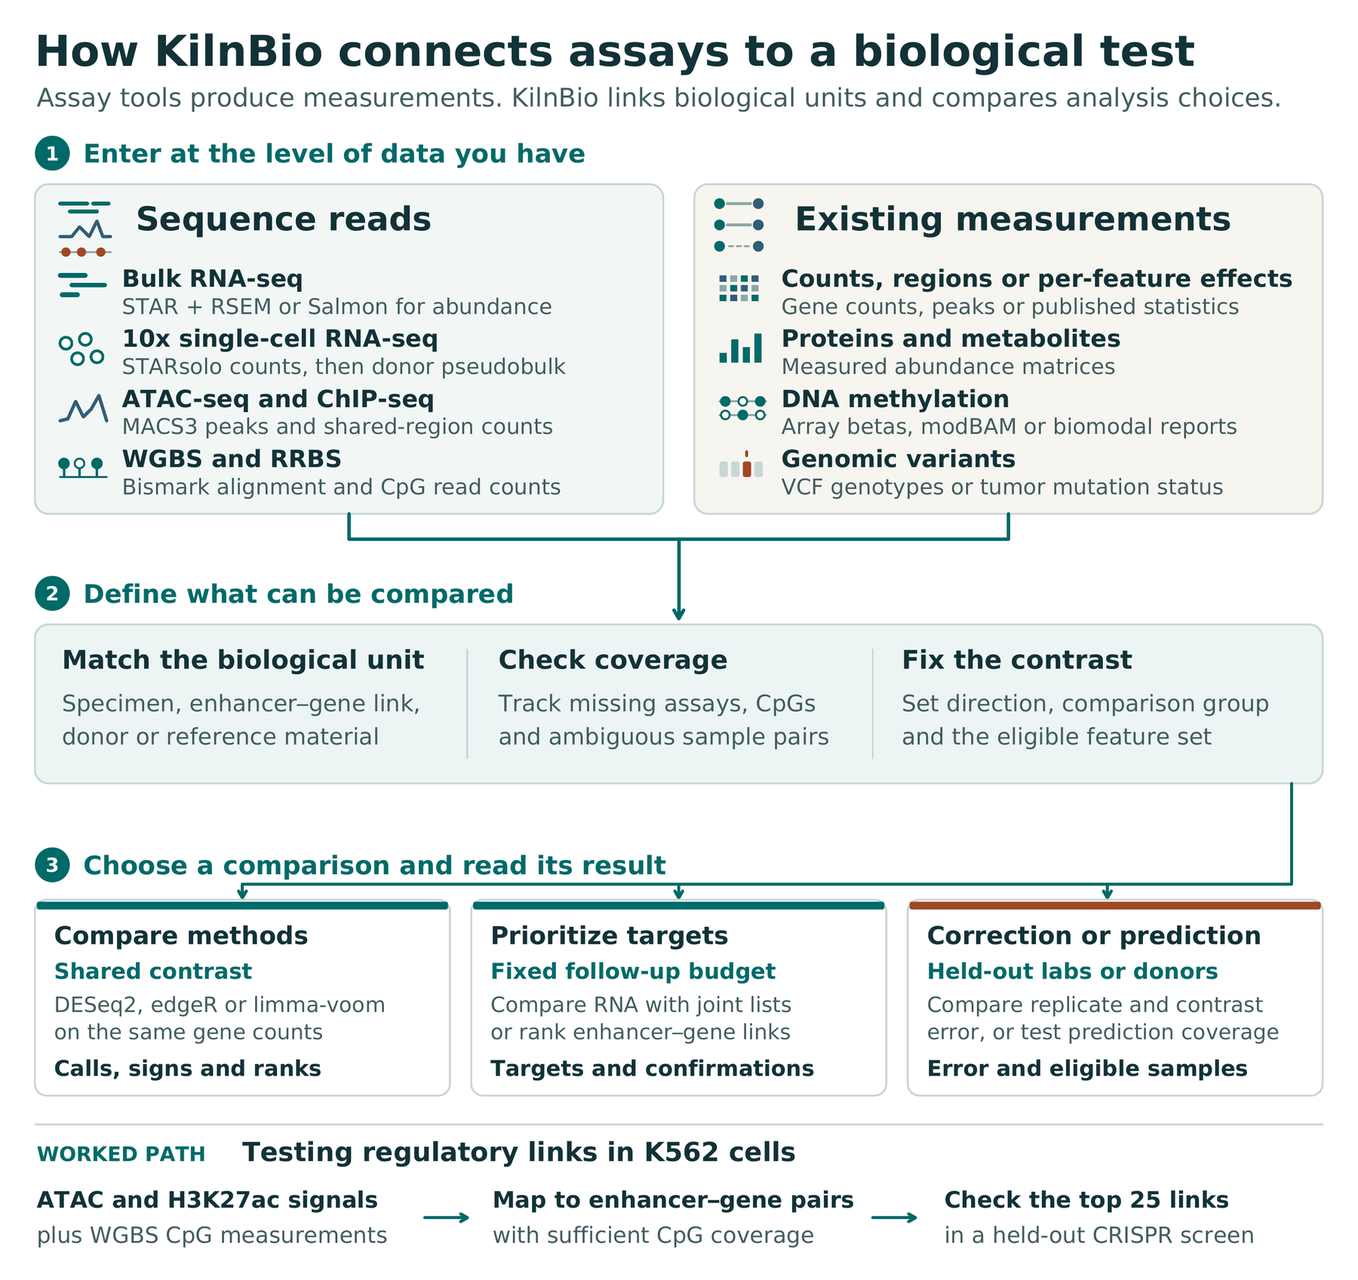
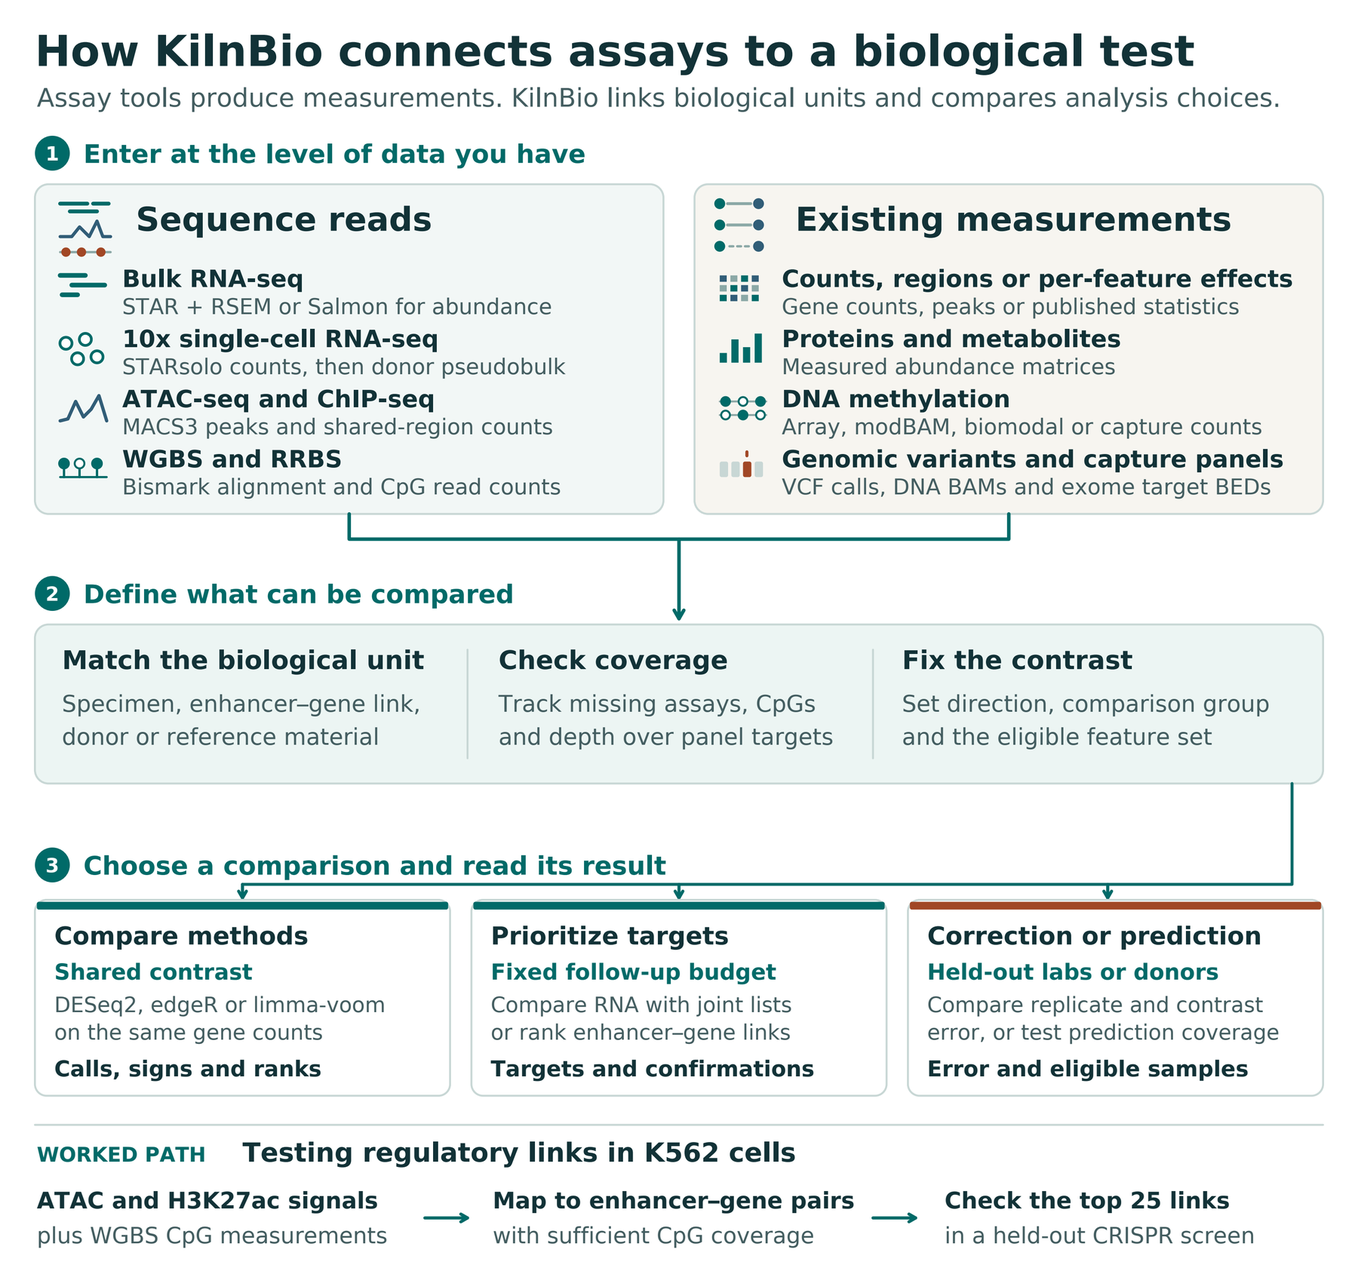
Audit Twist exome, methylome and custom capture targets

diff --git a/downstream/capture_panel.py b/downstream/capture_panel.py
@@ -1,0 +1,232 @@
+"""Audit an explicit target design, measured features and optional DNA alignment depth."""
+import argparse
+from bisect import bisect_right
+from collections import defaultdict
+import csv
+import gzip
+import json
+from pathlib import Path
+import shutil
+import subprocess
+import tempfile
+
+from analysis import digest
+
+
+PRESETS = {
[2 lines of base64/hex data omitted]
+}
+
+
+def open_text(path):
+    return gzip.open(path, "rt", encoding="utf-8-sig") if path.suffix == ".gz" else path.open(encoding="utf-8-sig")
+
+
+def reference_lengths(path):
+    lengths = {}
+    with open_text(path) as handle:
+        for line in handle:
+            chrom, length, *_ = line.rstrip("\r\n").split("\t")
+            if chrom in lengths or int(length) < 1:
+                raise ValueError(f"Invalid reference length for {chrom}")
+            lengths[chrom] = int(length)
+    if not lengths:
+        raise ValueError("Empty reference size table")
+    return lengths
+
+
+def check_interval(chrom, start, end, lengths):
+    if chrom not in lengths or not 0 <= start < end <= lengths[chrom]:
+        raise ValueError(f"Unknown contig or coordinates outside reference: {chrom} {start} {end}")
+
+
+def bed_rows(path, lengths):
+    with open_text(path) as handle:
+        for line in handle:
+            if not line.strip() or line.startswith(("#", "track ", "browser ")):
+                continue
+            fields = line.rstrip("\r\n").split("\t")
+            chrom, left, right = fields[:3]
+            start, end = int(left), int(right)
+            check_interval(chrom, start, end, lengths)
+            yield chrom, start, end, fields[3] if len(fields) > 3 else "."
+
+
+def target_union(path, lengths):
+    intervals = defaultdict(list)
+    number = 0
+    for chrom, start, end, _ in bed_rows(path, lengths):
+        intervals[chrom].append((start, end))
+        number += 1
+    if not number:
+        raise ValueError("Empty target BED")
+    result = {}
+    for chrom, rows in intervals.items():
+        merged = []
+        for start, end in sorted(rows):
+            if merged and start <= merged[-1][1]:
+                merged[-1] = (merged[-1][0], max(end, merged[-1][1]))
+            else:
+                merged.append((start, end))
+        result[chrom] = merged
+    return result, number
+
+
+def within(chrom, start, end, regions):
+    rows = regions.get(chrom, ())
+    i = bisect_right(rows, (start, float("inf"))) - 1
+    return i >= 0 and end <= rows[i][1]
+
+
+def measurement_rows(path, kind, lengths, assembly):
+    if kind == "bed":
+        yield from bed_rows(path, lengths)
+        return
+    with open_text(path) as handle:
+        if kind == "cpg":
+            reader = csv.DictReader(handle, delimiter="\t")
+            if reader.fieldnames != ["chr", "pos", "N", "X"]:
+                raise ValueError("Expected a strand-collapsed KilnBio chr,pos,N,X count table")
+            last = {}
+            for row in reader:
+                start = int(row["pos"]) - 1
+                if start <= last.get(row["chr"], -1):
+                    raise ValueError("CpG positions must be unique and increasing on each contig")
+                last[row["chr"]] = start
+                n, x = int(row["N"]), int(row["X"])
+                if n <= 0 or not 0 <= x <= n:
+                    raise ValueError("Expected a covered CpG with valid integer counts")
+                check_interval(row["chr"], start, start + 2, lengths)
+                yield row["chr"], start, start + 2, f"{x}/{n}"
+        else:
+            header = False
+            builds = {"hg19": "37", "grch37": "37", "hg38": "38", "grch38": "38"}
+            for line in handle:
+                if line.startswith("##reference="):
+                    declared = {v for k, v in builds.items() if k in line.lower()}
+                    expected = builds.get(assembly.lower())
+                    if expected and declared and declared != {expected}:
+                        raise ValueError("VCF reference header contradicts requested assembly")
+                if line.startswith("##"):
+                    continue
+                if line.startswith("#CHROM\t"):
+                    header = True
+                    continue
+                if not header:
+                    raise ValueError("Missing VCF column header")
+                chrom, pos, _, ref, alt, _, filt, *_ = line.rstrip().split("\t")
+                if filt != "PASS" or any(c not in "ACGT" for c in ref + alt) or not ref or not alt:
+                    continue
+                start = int(pos) - 1
+                check_interval(chrom, start, start + len(ref), lengths)
+                yield chrom, start, start + len(ref), f"{ref}>{alt}"
+            if not header:
+                raise ValueError("Missing VCF column header")
+
+
+def depth_summary(args, stage, regions, lengths, bases):
+    header = subprocess.check_output(["samtools", "view", "-H", str(args.bam)], text=True)
+    sam_lengths = {}
+    for line in header.splitlines():
+        if line.startswith("@SQ\t"):
+            tags = dict(field.split(":", 1) for field in line.split("\t")[1:])
+            sam_lengths[tags["SN"]] = int(tags["LN"])
+    if any(sam_lengths.get(c) != lengths[c] for c in regions):
+        raise ValueError("BAM contigs or lengths disagree with the target reference")
+    cmd = ["samtools", "depth", "-s", "-q", str(args.min_bq), "-Q", str(args.min_mq),
+           "-b", str(stage / "targets.bed"), str(args.bam)]
+    covered = passing = total_depth = 0
+    with subprocess.Popen(cmd, stdout=subprocess.PIPE, text=True) as proc:
+        for line in proc.stdout:
+            chrom, pos, depth = line.rstrip().split("\t")
+            n = int(depth)
+            if not within(chrom, int(pos) - 1, int(pos), regions):
+                raise ValueError("Samtools emitted an unexpected position outside targets")
+            total_depth += n
+            covered += int(n > 0)
+            passing += int(n >= args.min_depth)
+        if proc.wait():
+            raise RuntimeError("Samtools depth failed")
+    return {"target_bases": bases, "covered_bases": covered, "zero_depth_bases": bases - covered,
+            "bases_at_min_depth": passing, "fraction_at_min_depth": passing / bases,
+            "mean_depth": total_depth / bases, "min_depth": args.min_depth,
+            "min_mapping_quality": args.min_mq, "min_base_quality": args.min_bq,
+            "samtools": subprocess.check_output(["samtools", "--version-only"], text=True).strip(),
+            "overlapping_mates": "samtools depth -s; count once"}
+
+
+def run(args):
+    out = args.out.resolve()
+    if out.exists():
+        raise ValueError("Choose a new output directory")
+    if args.min_depth < 1 or min(args.min_mq, args.min_bq) < 0:
+        raise ValueError("Invalid depth or quality thresholds")
+    if (args.measurements or args.bam) and args.data_assembly != args.assembly:
+        raise ValueError("Measurement and panel assembly labels must match")
+    signature = digest(args.targets)
+    if args.preset != "custom" and (args.assembly not in ("hg38", "GRCh38") or signature != PRESETS[args.preset]):
+        raise ValueError("Fixed preset requires the original vendor hg38 BED; use custom for a revised design")
+    lengths = reference_lengths(args.sizes)
+    regions, rows = target_union(args.targets, lengths)
+    bases = sum(end-start for spans in regions.values() for start,end in spans)
+    report = {"panel": args.name, "preset": args.preset, "assembly": args.assembly, "target_rows": rows,
+              "target_union_bases": bases, "target_bed_sha256": signature, "sizes_sha256": digest(args.sizes)}
+    if args.baits:
+        baits, bait_rows = target_union(args.baits, lengths)
+        report["baits"] = {"rows": bait_rows, "union_bases": sum(e-s for v in baits.values() for s,e in v),
+                           "sha256": digest(args.baits)}
+    out.parent.mkdir(parents=True, exist_ok=True)
+    stage = Path(tempfile.mkdtemp(prefix=".capture-", dir=out.parent))
+    try:
+        with (stage/"targets.bed").open("w", newline="") as h:
+            for chrom in lengths:
+                for start,end in regions.get(chrom, ()):
+                    h.write(f"{chrom}\t{start}\t{end}\n")
+        if args.measurements:
+            tested = inside = 0
+            with (stage/"features.tsv").open("w", newline="", encoding="utf-8") as h:
+                writer = csv.writer(h, delimiter="\t", lineterminator="\n")
+                writer.writerow(["chrom","start","end","feature","fully_on_target"])
+                for chrom,start,end,name in measurement_rows(args.measurements,args.format,lengths,args.assembly):
+                    hit = within(chrom,start,end,regions)
+                    tested += 1
+                    inside += hit
+                    writer.writerow([chrom,start,end,name,int(hit)])
+            report["features"] = {"format":args.format,"tested":tested,"fully_on_target":inside,
+                                  "outside_or_partial":tested-inside,"input_sha256":digest(args.measurements)}
+        if args.bam:
+            report["alignment_depth"] = depth_summary(args,stage,regions,lengths,bases)
+            report["alignment_depth"]["bam_sha256"] = digest(args.bam)
+        (stage/"summary.json").write_text(json.dumps(report,indent=2)+"\n",encoding="utf-8")
+        stage.rename(out)
+    finally:
+        if stage.exists():
+            shutil.rmtree(stage)
+
+
+def main():
+    p = argparse.ArgumentParser(description=__doc__)
+    p.add_argument("--targets", type=Path, required=True, help="BED3+ covered targets (0-based, half-open)")
+    p.add_argument("--baits", type=Path, help="Optional separate capture probe intervals")
+    p.add_argument("--name", required=True, help="Panel and design version or custom identifier")
+    p.add_argument("--preset", choices=["custom", *PRESETS], default="custom")
+    p.add_argument("--assembly", required=True)
+    p.add_argument("--sizes", type=Path, required=True, help="Matching FASTA index or chromosome sizes")
+    p.add_argument("--data-assembly", help="Required for any measurement input")
+    p.add_argument("--measurements", type=Path, help="BED, called VCF, or KilnBio CpG counts")
+    p.add_argument("--format", choices=["bed","vcf","cpg"], default="bed")
+    p.add_argument("--bam", type=Path, help="Coordinate-sorted alignment for DNA coverage")
+    p.add_argument("--min-depth", type=int, default=10)
+    p.add_argument("--min-mq", type=int, default=20)
+    p.add_argument("--min-bq", type=int, default=20)
+    p.add_argument("--out", type=Path, required=True)
+    args = p.parse_args()
+    try:
+        run(args)
+    except (OSError,ValueError,RuntimeError,subprocess.CalledProcessError) as e:
+        p.exit(2, f"ERROR: {e}\n")
+
+
+if __name__ == "__main__":
+    main()

diff --git a/tests/test_capture_panel.py b/tests/test_capture_panel.py
@@ -1,0 +1,66 @@
+import json
+from pathlib import Path
+import shutil
+import subprocess
+import sys
+import tempfile
+import unittest
+
+SCRIPT = Path(__file__).resolve().parents[1] / "downstream" / "capture_panel.py"
+
+
+class CapturePanel(unittest.TestCase):
+    def setUp(self):
+        self.temp = tempfile.TemporaryDirectory()
+        self.addCleanup(self.temp.cleanup)
+        self.root = Path(self.temp.name)
+        (self.root / "sizes").write_text("chr1\t20\n")
+        (self.root / "target").write_text("chr1\t1\t5\nchr1\t3\t6\nchr1\t6\t7\n")
+        self.args = [sys.executable, str(SCRIPT), "--targets", "target", "--name", "test",
+                     "--sizes", "sizes", "--assembly", "GRCh38", "--data-assembly", "GRCh38", "--out", "out"]
+
+    def invoke(self, *args, success=True):
+        result = subprocess.run(self.args + list(args), cwd=self.root, capture_output=True, text=True)
+        if success:
+            self.assertEqual(result.returncode, 0, result.stderr)
+            return json.loads((self.root / "out/summary.json").read_text())
+        self.assertNotEqual(result.returncode, 0)
+        self.assertFalse((self.root / "out").exists())
+        return result.stderr
+
+    def test_union_boundaries_cpg_and_baits(self):
+        (self.root / "baits").write_text("chr1\t0\t8\n")
+        (self.root / "cpg").write_text("chr\tpos\tN\tX\nchr1\t1\t2\t1\nchr1\t6\t2\t0\nchr1\t7\t1\t1\n")
+        info = self.invoke("--measurements", "cpg", "--format", "cpg", "--baits", "baits")
+        self.assertEqual((info["target_rows"],info["target_union_bases"],info["baits"]["union_bases"]), (3,6,8))
+        self.assertEqual((info["features"]["fully_on_target"],info["features"]["tested"]), (1,3))
+
+    def test_vcf_full_span_pass_only(self):
+        (self.root / "calls").write_text("##reference=GRCh38\n#CHROM\tPOS\tID\tREF\tALT\tQUAL\tFILTER\tINFO\n"
+            "chr1\t2\t.\tA\tT\t.\tPASS\t.\nchr1\t7\t.\tAT\tA\t.\tPASS\t.\n"
+            "chr1\t3\t.\tA\t<DEL>\t.\tPASS\t.\nchr1\t3\t.\tA\tC\t.\tLowQual\t.\n")
+        info = self.invoke("--measurements", "calls", "--format", "vcf")
+        self.assertEqual((info["features"]["fully_on_target"],info["features"]["tested"]), (1,2))
+
+    def test_wrong_build_duplicate_cpg_and_unknown_contig(self):
+        (self.root / "x").write_text("##reference=hg19\n")
+        self.assertIn("contradicts", self.invoke("--measurements","x","--format","vcf",success=False))
+        (self.root / "x").write_text("chr\tpos\tN\tX\nchr1\t2\t2\t1\nchr1\t2\t2\t1\n")
+        self.assertIn("unique", self.invoke("--measurements","x","--format","cpg",success=False))
+        (self.root / "x").write_text("1\t0\t1\n")
+        self.assertIn("Unknown contig", self.invoke("--measurements","x",success=False))
+        self.assertIn("original vendor",self.invoke("--preset","twist-exome-2-hg38",success=False))
+
+    @unittest.skipUnless(shutil.which("samtools"), "requires samtools")
+    def test_zero_coverage_in_denominator(self):
+        sam = self.root / "tiny.sam"
+        sam.write_text("@HD\tVN:1.6\tSO:coordinate\n@SQ\tSN:chr1\tLN:20\n"
+                       "read1\t0\tchr1\t2\t60\t3M\t*\t0\t0\tAGC\tIII\n")
+        subprocess.run(["samtools","view","-b","-o",str(self.root/"tiny.bam"),str(sam)],check=True)
+        info = self.invoke("--bam","tiny.bam","--min-depth","1")["alignment_depth"]
+        self.assertEqual((info["target_bases"],info["covered_bases"],info["zero_depth_bases"]), (6,3,3))
+        self.assertEqual(info["fraction_at_min_depth"],0.5)
+
+
+if __name__ == "__main__":
+    unittest.main()

diff --git a/docs/CAPTURE_PANELS.md b/docs/CAPTURE_PANELS.md
@@ -1,0 +1,56 @@
+# Targeted methylome and exome capture
+
+Use `kilnbio capture-panel` to measure depth over a capture design or to ask which measured sites or called variants lie inside it. Supply the **covered target BED for the kit and revision you used**. A methylome kit and an exome kit each have their own target file. Probes can tile or extend beyond their intended targets, so their optional BED has a separate checksum and size.
+
+| Input | Result |
+|---|---|
+| Target BED and FASTA index or chromosome sizes | Merged, unpadded target intervals and number of unique target bases |
+| Coordinate-sorted DNA BAM plus targets | Mean depth, zero-depth bases and fraction meeting the chosen minimum over **all** target bases. Requires SAMtools (tested with 1.24). |
+| Called small-variant VCF | Record-level eligibility of PASS biallelic A/C/G/T alleles using the entire reference span. A missing variant is unknown. This does not assign genotypes or count false negatives. |
+| Strand-collapsed KilnBio CpG counts | Whether both bases of each covered CpG lie within the targets. Counts are retained as modified/valid. |
+| BED or bedGraph | Full-containment flag per deposited interval. A percentage without a read count is suitable for interval eligibility only. |
+
+### Choose the target design
+
+For the named hg38 presets, download the exact covered-target file from Twist. An updated vendor file or a panel with spike-ins can be supplied as `--preset custom` with its own explicit design name, matching reference and complete target BED. The software records file SHA-256 hashes in each report. It performs no liftover or contig renaming.
+
+* `twist-human-methylome-hg38` uses `covered_targets_Twist_Methylome_hg38_annotated_collapsed.bed`. [Twist Human Methylome target BED](https://www.twistbioscience.com/resources/bed-files/twist-human-methylome-panel-target-bed-file)
+* `twist-exome-2-hg38` uses `hg38_exome_v2.0.2_targets_sorted_validated.re_annotated.bed`. [Twist Exome 2.0 BED files](https://www.twistbioscience.com/resources/bed-files/twist-exome-20-bed-files)
+
+### Run the audit
+
+```bash
+kilnbio capture-panel --preset twist-exome-2-hg38 --name Twist-Exome-v2.0.2 \
+  --assembly GRCh38 --data-assembly GRCh38 --sizes genome.fa.fai \
+  --targets hg38_exome_v2.0.2_targets_sorted_validated.re_annotated.bed \
+  --bam sample.sorted.bam --min-depth 20 --measurements sample.vcf.gz \
+  --format vcf --out exome-qc
+
+kilnbio capture-panel --preset twist-human-methylome-hg38 --name Twist-Methylome \
+  --assembly GRCh38 --data-assembly GRCh38 --sizes genome.fa.fai \
+  --targets covered_targets_Twist_Methylome_hg38_annotated_collapsed.bed \
+  --measurements cpg-counts.tsv --format cpg --out methylome-qc
+
+kilnbio capture-panel --name lab-panel-v3 --assembly GRCh38 --sizes genome.fa.fai \
+  --targets custom.targets.bed --baits custom.baits.bed --out design-qc
+```
+
+The output directory must be new. In `features.tsv`, coordinates are zero-based and half-open. Each row refers to one input feature. VCF insertions use the VCF anchor. CpG count input has the tab-separated header `chr pos N X` (1-based forward C, valid calls, modified calls). BED features keep their original interval. Alignments use mapping and base quality 20 by default, suppress overlapping mates with `samtools depth -s` and use samtools' default flag exclusions. DNA depth and valid modification depth measure different things. [SAMtools depth](https://www.htslib.org/doc/samtools-depth.html)
+
+For variant accuracy, compare a callset from an actual capture specimen to matching truth inside the intersection of the design and confident regions. A design overlap or depth threshold alone cannot measure variant sensitivity. [NIST Genome in a Bottle](https://www.nist.gov/programs-projects/genome-bottle)
+
+
+### Public worked input
+
+For a small exome exercise, use paired FASTQ from run DRR635838, the standard HG002 exome in PRJDB20167. The study used Twist Exome 2.0 plus a Comprehensive Exome spike-in. Download the two FASTQ files listed on the run record, retain the same first 10,000 complete records in each mate file and check paired identifiers. Align against the full GRCh38 no-alt assembly. The following commands take those two matched files and a Bowtie 2 genome index. Bowtie 2 v2.4.4 and SAMtools 1.24 were used for the example.
+
+```bash
+set -euo pipefail
+bowtie2 --very-sensitive --seed 31 -p 4 -x "$GRCH38_INDEX" \
+    -1 mate1.fq -2 mate2.fq | samtools sort -o subset.sorted.bam -
+kilnbio capture-panel --preset twist-exome-2-hg38 --name HG002-core-exome \
+    --assembly GRCh38 --data-assembly GRCh38 --sizes "$GRCH38_FAI" \
+    --targets "$TWIST_EXOME_TARGETS" --bam subset.sorted.bam --out subset-core-qc
+```
+
+Here the denominator is the core design only. A shallow prefix cannot measure whole-exome sequencing performance. [ENA run DRR635838](https://www.ebi.ac.uk/ena/browser/view/DRR635838) · [Study design and spike-in](https://doi.org/10.1038/s10038-025-01403-4)

diff --git a/README.md b/README.md
@@ -4,7 +4,9 @@
 
 KilnBio helps researchers process multiple assays and measure whether an assay or analysis choice earns its place in a study. For example, if adding proteomics changes the targets you would follow up, KilnBio lets you separate the effect of adding the measurement from the effect of excluding donors who lack it. It records which specimens can be paired, which targets remain measurable and which directions agree in an independent cohort.
 
-**Release:** [v0.2.0-research.2](https://github.com/varunorama/kilnbio-research/releases/tag/v0.2.0-research.2). This is a versioned distribution for approved **noncommercial research**. Read [permitted uses and access](ACCESS.md) and the [license](LICENSE). For commercial or industry-sponsored projects, contact Varun B. Dwaraka before use.
+**Release:** [v0.2.0-research.3](https://github.com/varunorama/kilnbio-research/releases/tag/v0.2.0-research.3). This is a versioned distribution for approved **noncommercial research**. Read [permitted uses and access](ACCESS.md) and the [license](LICENSE). For commercial or industry-sponsored projects, contact Varun B. Dwaraka before use.
+
+**Targeted sequencing.** Use a Twist Human Methylome, Twist Exome 2.0, or custom target BED to measure depth and identify which variants or measured CpGs lie inside the design. See the [capture-panel guide](docs/CAPTURE_PANELS.md).
 
 ## Follow your data through KilnBio
 
@@ -25,7 +27,7 @@ To reproduce an analysis, use the README inside its named ZIP. You can run the b
 
 Start here if you received this release for the independent run. You need only the ZIP, its checksum, this README, public internet access, Python 3.10+ and R 4.6.x (tested: Python 3.12 and R 4.6.2). No GitHub account is needed for a ZIP supplied by the maintainer. The analysis starts from deposited TCGA RNA abundance, reverse-phase protein arrays (RPPA) and somatic mutation calls, not FASTQs or mass spectrometry. Allow 1 GB of free disk space. No Python packages, Docker, Nextflow or full KilnBio installation are needed for this example.
 
-1. Start your clock. In the download directory check the named ZIP against its companion checksum: on Linux/WSL run `sha256sum -c kilnbio-research-0.2.0-research.2.zip.sha256`; on Windows compare `(Get-FileHash kilnbio-research-0.2.0-research.2.zip).Hash` with the hexadecimal value in the checksum file. Extract the ZIP and open a terminal in the extracted directory **containing this README**. Select a writable directory for the files generated below. The examples write them beside the extracted release.
+1. Start your clock. In the download directory check the named ZIP against its companion checksum: on Linux/WSL run `sha256sum -c kilnbio-research-0.2.0-research.3.zip.sha256`; on Windows compare `(Get-FileHash kilnbio-research-0.2.0-research.2.zip).Hash` with the hexadecimal value in the checksum file. Extract the ZIP and open a terminal in the extracted directory **containing this README**. Select a writable directory for the files generated below. The examples write them beside the extracted release.
 2. Make sure `python` (or `python3`) and `Rscript` are on PATH. On Linux and macOS, building the pinned R packages from source also requires the C and Fortran build tools for your R installation (Linux: make, gcc and gfortran with R development headers). Windows uses prebuilt R packages. Run these two commands from the release root, unchanged on Windows, macOS or Linux:
 
 ```
@@ -51,7 +53,7 @@ Input sources: [TCGA bladder study](https://pubmed.ncbi.nlm.nih.gov/28988769/), 
 ### Get started
 
 1. Obtain approval and the ZIP plus matching checksum from the maintainer.
-2. In Linux or WSL2, verify the file with `sha256sum -c kilnbio-research-0.2.0-research.2.zip.sha256`, then unzip it.
+2. In Linux or WSL2, verify the file with `sha256sum -c kilnbio-research-0.2.0-research.3.zip.sha256`, then unzip it.
 3. From the extracted directory, run:
 
 ```bash
